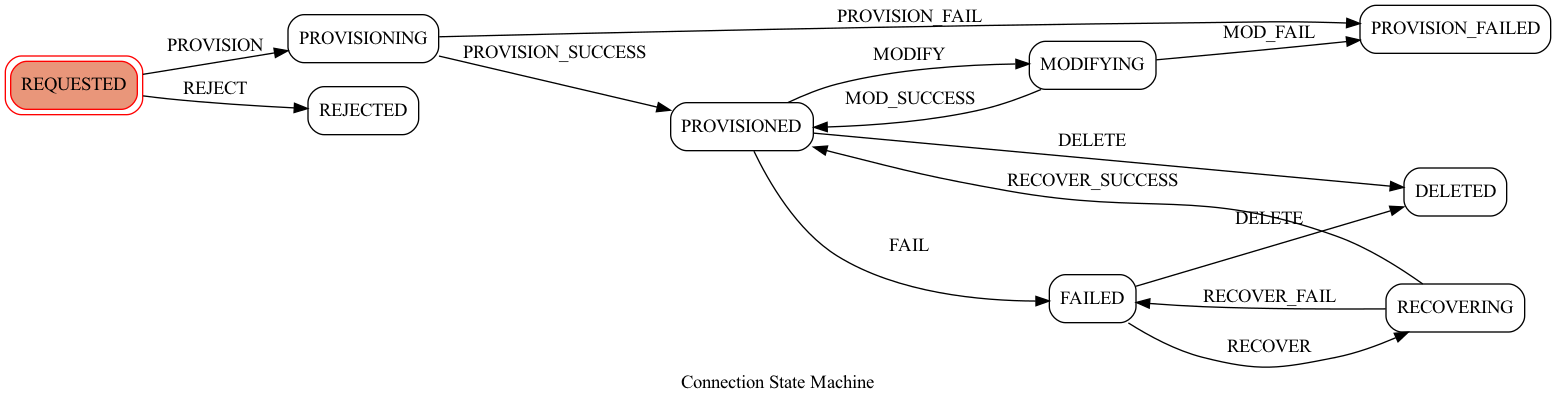
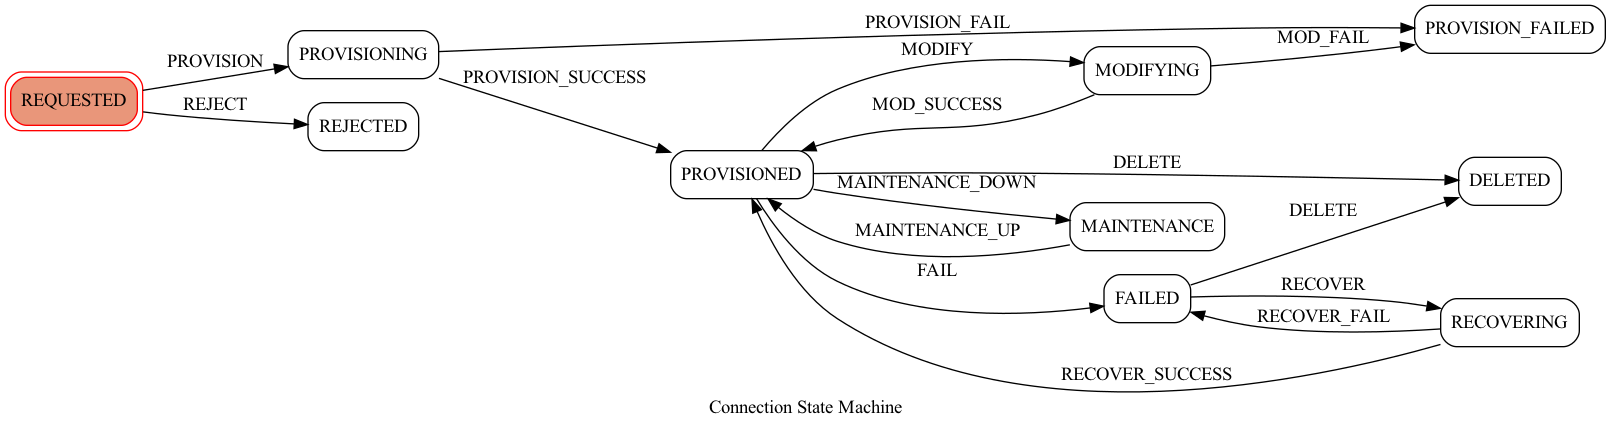
validating against time and qos_metrics values

diff --git a/src/sdx_datamodel/validation/connectionvalidator.py b/src/sdx_datamodel/validation/connectionvalidator.py
@@ -7,6 +7,7 @@ from re import match
 
 from sdx_datamodel.models.connection import Connection
 from sdx_datamodel.models.port import Port
+from datetime import datetime
 
 ISO_FORMAT = r"\d{4}-\d{2}-\d{2}T\d{2}:\d{2}:\d{2}[-+]\d{2}:\d{2}"
 
@@ -59,9 +60,42 @@ class ConnectionValidator:
         errors += self._validate_object_defaults(conn)
         errors += self._validate_port(conn.ingress_port, conn)
         errors += self._validate_port(conn.egress_port, conn)
+        if hasattr(conn, 'scheduling'):
+            errors += self._validate_time(conn.start_time, conn.end_time, conn)
 
-        # errors += self._validate_time(conn.start_time, conn)
-        # errors += self._validate_time(conn.end_time, conn)
+        if hasattr(conn, 'qos_metrics'):
+            errors += self._validate_qos_metrics_value(conn.qos_metrics)
+
+        return errors
+
+    def _validate_qos_metrics_value(self, qos_metrics: ConnectionQosMetrics):
+        """
+        Validate that the QoS Metrics provided meets the XSD standards.
+
+        A connection must have the following:
+
+            - It must meet object default standards.
+
+            - The max_delay must be a number
+
+            - The max_number_oxps must be a number
+
+        :param qos_metrics: The QoS Metrics being evaluated.
+
+        :return: A list of any issues in the data.
+        """
+        errors = []
+
+        if not isinstance(qos_metrics.max_delay, int):
+            errors.append(f"{qos_metrics.max_delay} max_delay must be a number")
+            if not (0 <= qos_metrics.max_delay <= 1000):
+                errors.append(f"{qos_metrics.max_delay} max_delay must be between 0 and 1000")
+        if not isinstance(qos_metrics.max_number_oxps, int):
+            errors.append(
+                f"{qos_metrics.max_number_oxps} max_number_oxps must be a number"
+            )
+            if not (0 <= qos_metrics.max_number_oxps <= 100):
+                errors.append(f"{qos_metrics.max_number_oxps} max_number_oxps must be between 0 and 100")
 
         return errors
 
@@ -112,8 +146,14 @@ class ConnectionValidator:
         :return: A list of any issues in the data.
         """
         errors = []
-        if not match(ISO_TIME_FORMAT, time):
-            errors.append(f"{time} time needs to be in full ISO format")
+        #if not match(ISO_TIME_FORMAT, time):
+        #    errors.append(f"{time} time needs to be in full ISO format")
+        try:
+            time_obj = datetime.fromisoformat(time)
+            if time_obj < datetime.now():
+                errors.append(f"{time} time cannot be before the current time")
+        except ValueError:
+            errors.append(f"{time} time is not in a valid ISO format")
         return errors
 
     def _validate_object_defaults(self, sdx_object):

diff --git a/tests/test_connection_v2.py b/tests/test_connection_v2.py
@@ -7,8 +7,19 @@ from sdx_datamodel.models.connection_v2 import Connection
 from sdx_datamodel.models.link import Link
 from sdx_datamodel.models.port import Port
 
+from sdx_datamodel.parsing.connectionhandler import ConnectionHandler
+from sdx_datamodel.validation.connectionvalidator import ConnectionValidator
 
 class TestConnection(unittest.TestCase):
+
+    def _get_validator(self, path):
+        """
+        Return a validator for the given file.
+        """
+        handler = ConnectionHandler()
+        connection = handler.import_connection_data(data)
+        return ConnectionValidator(connection)
+
     def test_connection(self):
         # Create test data
         endpoints = [Port(id="port1"), Port(id="port2")]
@@ -43,6 +54,29 @@ class TestConnection(unittest.TestCase):
         self.assertEqual(connection.qos_metrics, qos_metrics)
         self.assertEqual(connection.paths, paths)
         self.assertEqual(connection.exclusive_links, exclusive_links)
+
+        """
+        Validate a JSON document descibing a connection.
+        """
+    def test_connection_invalida_qos_metrics(self):
+        connection_request = {
+            "name": "VLAN between AMPATH/2010 and TENET/2010",
+            "endpoints": [
+                {"port_id": "urn:sdx:port:ampath.net:Ampath3:50","vlan": "2010"},
+                {"port_id": "urn:sdx:port:tenet.ac.za:Tenet03:50","vlan": "2010"}
+            ],
+            "qos_metrics": {
+                "max_delay": {
+                    "value": 1001
+                },
+                "max_number_oxps": {
+                    "value": 101
+                }
+            }
+        }
+
+        validator = self._get_validator(connection_request)
+        self.assertTrue(validator.is_valid())
 
 
 if __name__ == "__main__":

diff --git a/src/sdx_datamodel/connection_sm.py b/src/sdx_datamodel/connection_sm.py
@@ -52,6 +52,7 @@ class ConnectionStateMachine:
         FAILED = auto()
         RECOVERING = auto()
         DELETED = auto()
+        MAINTENANCE = auto()
 
         def __str__(self):
             return self.name
@@ -71,6 +72,8 @@ class ConnectionStateMachine:
         RECOVER_SUCCESS = auto()
         RECOVER_FAIL = auto()
         DELETE = auto()
+        MAINTENANCE_DOWN = auto()
+        MAINTENANCE_UP = auto()
 
         def __str__(self):
             return self.name
@@ -141,6 +144,16 @@ class ConnectionStateMachine:
             "source": str(State.FAILED),
             "dest": str(State.DELETED),
         },
+        {
+            "trigger": str(Trigger.MAINTENANCE_DOWN),
+            "source": str(State.PROVISIONED),
+            "dest": str(State.MAINTENANCE),
+        },
+        {
+            "trigger": str(Trigger.MAINTENANCE_UP),
+            "source": str(State.MAINTENANCE),
+            "dest": str(State.PROVISIONED),
+        },
     ]
 
     def __init__(self):
@@ -192,6 +205,8 @@ class ConnectionStateMachine:
     def set_state(self, state):
         self.state = state
 
+class ControllerStateMachine(ConnectionStateMachine):
+    name = "SDX Controller State Machine"
 
 def draw_transition(model, output):
     machine = GraphMachine(
